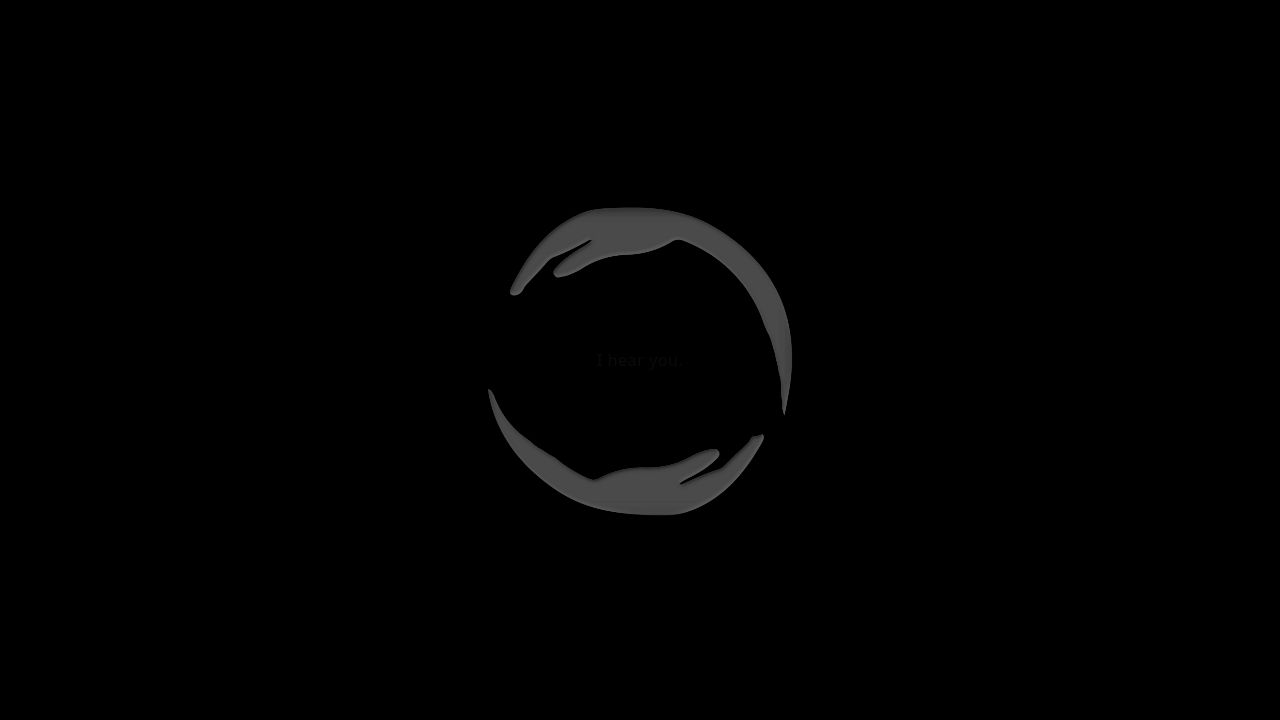
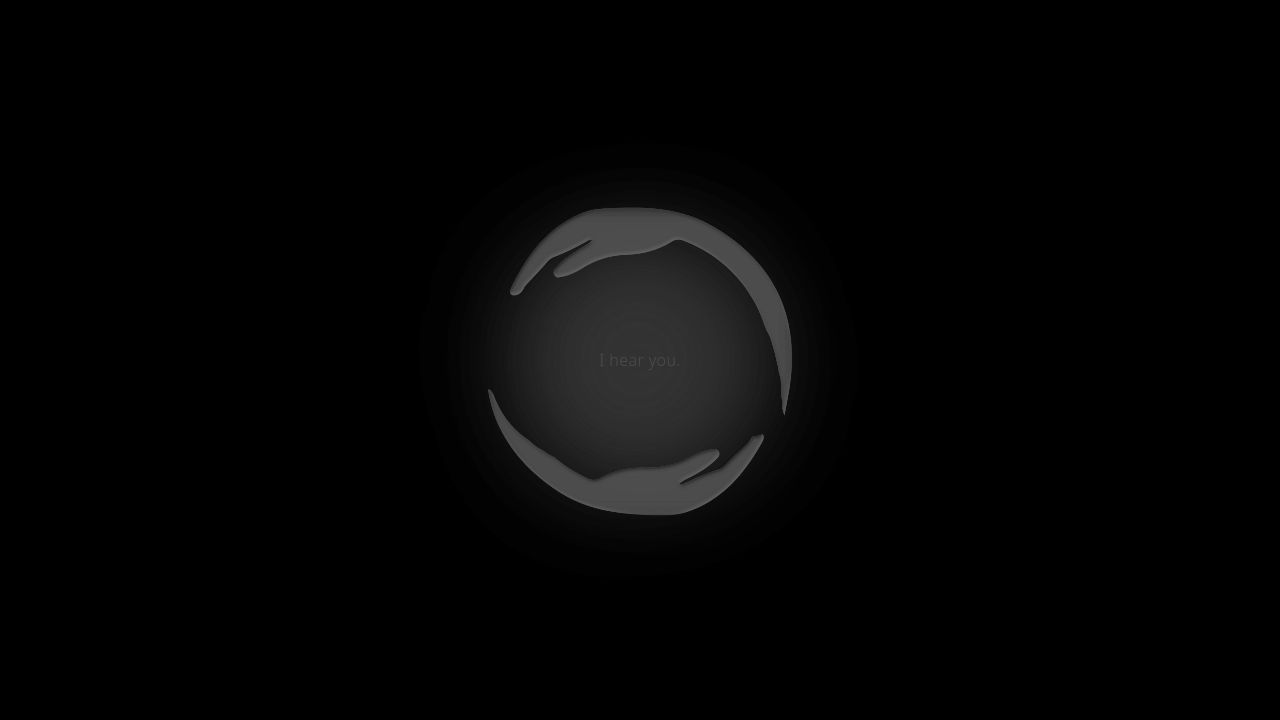
Add a text input option for users who prefer typing
Introduces "Mode B" (Text Option) to the UI. This includes a "Prefer typing?" label that appears after a delay, transitioning the interface to a text input mode when selected. The central pulse is dimmed in text mode, and the mode persists until explicitly switched.

Replit-Commit-Author: Agent
Replit-Commit-Session-Id: 455e66c2-9695-4871-8195-946dabbedeb2
Replit-Commit-Checkpoint-Type: full_checkpoint
Replit-Commit-Event-Id: fe23e14a-0219-458c-82b3-a986d026f471
Replit-Commit-Screenshot-Url: https://storage.googleapis.com/screenshot-production-us-central1/b8b418cc-7aae-4d56-b3df-bb377ff484a7/455e66c2-9695-4871-8195-946dabbedeb2/XKZupga
Replit-Helium-Checkpoint-Created: true

Changed region(s): [[0.375, 0.3361, 0.625, 0.6722]]

diff --git a/client/src/pages/home.tsx b/client/src/pages/home.tsx
@@ -1,31 +1,54 @@
-import { useState } from "react";
+import { useState, useEffect } from "react";
 import { motion, AnimatePresence } from "framer-motion";
 import { CentralForm } from "@/components/central-form";
 
 export default function Home() {
   const [hasStarted, setHasStarted] = useState(false);
   const [isActive, setIsActive] = useState(false);
+  const [mode, setMode] = useState<'voice' | 'text'>('voice');
+  const [showTypeOption, setShowTypeOption] = useState(false);
+
+  useEffect(() => {
+    // Show "Prefer typing?" option after 3 seconds
+    const timer = setTimeout(() => {
+      setShowTypeOption(true);
+    }, 3000);
+    return () => clearTimeout(timer);
+  }, []);
 
   const handleInteraction = () => {
+    if (mode === 'text') return; // Do nothing if in text mode
+
     if (!hasStarted) {
       setHasStarted(true);
       // First tap activates "listening/recording" state for the orb
       setIsActive(true);
+      // Fade out the typing option if voice interaction starts
+      setShowTypeOption(false);
     } else {
       // Toggle active state for demo purposes (or keep it active if it's a listening session)
       setIsActive(!isActive);
     }
   };
 
+  const handleTextMode = (e: React.MouseEvent) => {
+    e.stopPropagation(); // Prevent triggering the main click handler
+    setMode('text');
+    setIsActive(false); // Dim/Pause pulse
+    setHasStarted(true); // Remove "I hear you" if present
+    setShowTypeOption(false); // Remove the option itself
+  };
+
   return (
     <div 
-      className="min-h-screen w-full flex flex-col items-center justify-center overflow-hidden cursor-pointer select-none bg-black"
+      className="min-h-screen w-full flex flex-col items-center justify-center overflow-hidden cursor-pointer select-none bg-black relative"
       onClick={handleInteraction}
     >
       {/* Central Focal Element (Logo + Pulse) - Always visible */}
       {/* Passing active state to control breath intensity */}
-      <div className="flex-1 flex flex-col items-center justify-center relative w-full">
-        <CentralForm isActive={isActive} />
+      {/* Passing isDimmed to control opacity during text mode */}
+      <div className={`flex-1 flex flex-col items-center justify-center relative w-full transition-all duration-1000 ${mode === 'text' ? 'mb-32' : ''}`}>
+        <CentralForm isActive={isActive} isDimmed={mode === 'text'} />
 
         {/* "I hear you." - Initial state only */}
         {/* Same charcoal tone as pulse: rgba(58,58,58) */}
@@ -45,6 +68,46 @@ export default function Home() {
           )}
         </AnimatePresence>
       </div>
+
+      {/* Text Mode Input Interface */}
+      <AnimatePresence>
+        {mode === 'text' && (
+          <motion.div 
+            initial={{ opacity: 0, y: 20 }}
+            animate={{ opacity: 1, y: 0 }}
+            transition={{ duration: 0.5, ease: "easeOut" }}
+            className="absolute bottom-1/4 w-full max-w-lg px-8 flex flex-col items-center"
+            onClick={(e) => e.stopPropagation()}
+          >
+            <textarea 
+              className="w-full bg-transparent text-[#EFEFEF] text-xl md:text-2xl font-light text-center border-none outline-none resize-none placeholder-[#333]"
+              placeholder=""
+              autoFocus
+              rows={1}
+              style={{ caretColor: '#EFEFEF' }}
+              // Simple auto-resize logic could be added here
+            />
+          </motion.div>
+        )}
+      </AnimatePresence>
+
+      {/* "Prefer typing?" Option */}
+      <AnimatePresence>
+        {showTypeOption && mode === 'voice' && (
+          <motion.div
+            initial={{ opacity: 0 }}
+            animate={{ opacity: 0.7 }}
+            exit={{ opacity: 0 }}
+            transition={{ duration: 1.5, ease: "easeInOut" }}
+            className="absolute bottom-12 md:bottom-16 pointer-events-auto"
+            onClick={handleTextMode}
+          >
+            <p className="text-sm font-light text-[#525252] hover:text-[#737373] transition-colors duration-300">
+              Prefer typing?
+            </p>
+          </motion.div>
+        )}
+      </AnimatePresence>
     </div>
   );
 }

diff --git a/client/src/components/central-form.tsx b/client/src/components/central-form.tsx
@@ -1,6 +1,6 @@
 import { motion } from "framer-motion";
 
-export function CentralForm({ isActive = false }: { isActive?: boolean }) {
+export function CentralForm({ isActive = false, isDimmed = false }: { isActive?: boolean; isDimmed?: boolean }) {
   // INTERLOOP — BREATH / PULSE CANONICAL SPEC
   // Core Principle: Pulse represents breath and attention. Biological, non-mechanical.
   
@@ -18,7 +18,10 @@ export function CentralForm({ isActive = false }: { isActive?: boolean }) {
   // - Must not resolve into a clean circle at minimum size.
   
   return (
-    <div className="relative flex items-center justify-center w-[600px] h-[600px] pointer-events-none">
+    <div 
+        className="relative flex items-center justify-center w-[600px] h-[600px] pointer-events-none transition-opacity duration-1000 ease-in-out"
+        style={{ opacity: isDimmed ? 0.3 : 1 }}
+    >
       
       {/* --- LAYER 1: PULSE (BREATH) --- */}
       {/* Exists behind and through the logo. Never clipped. */}
